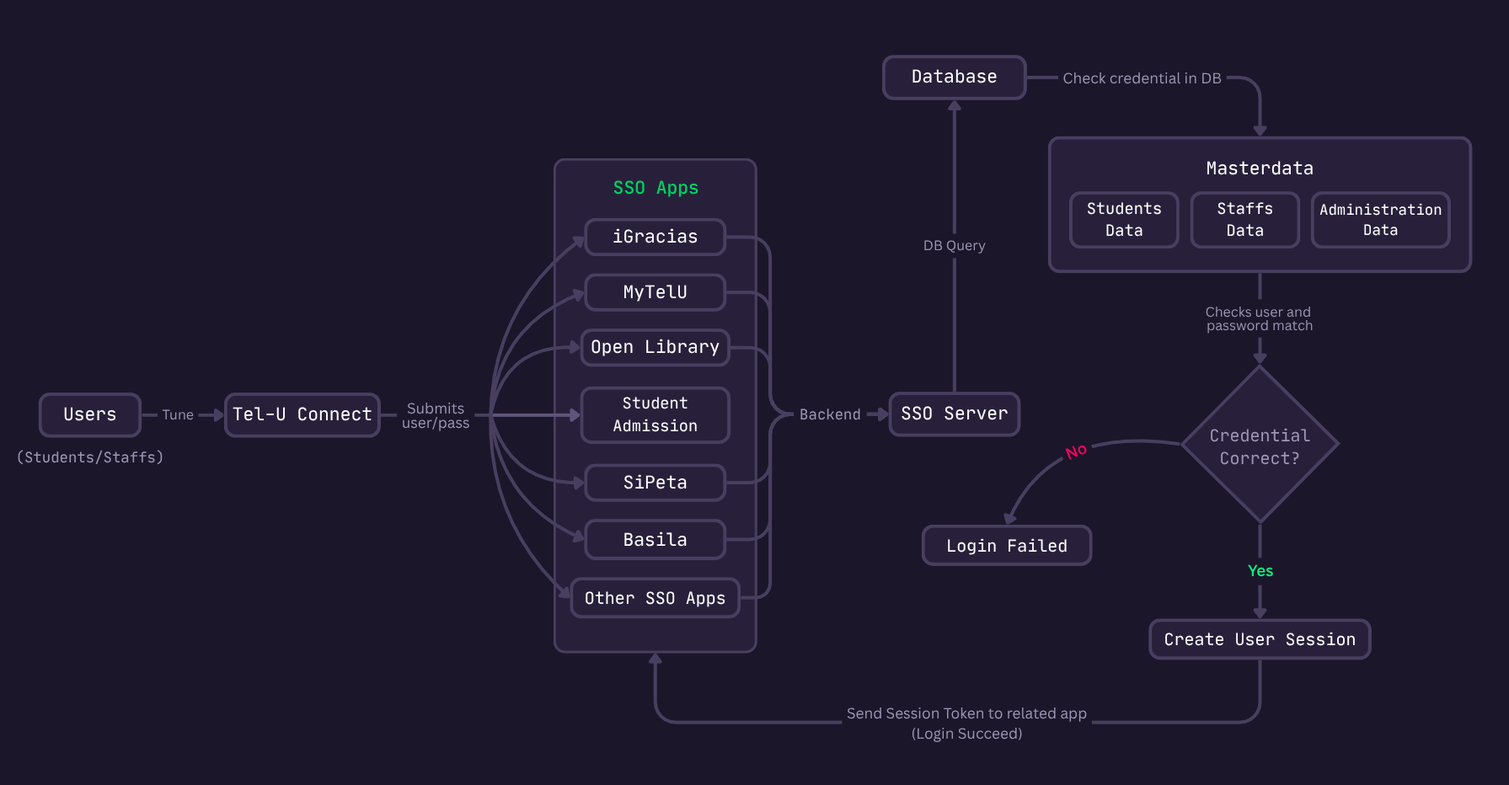
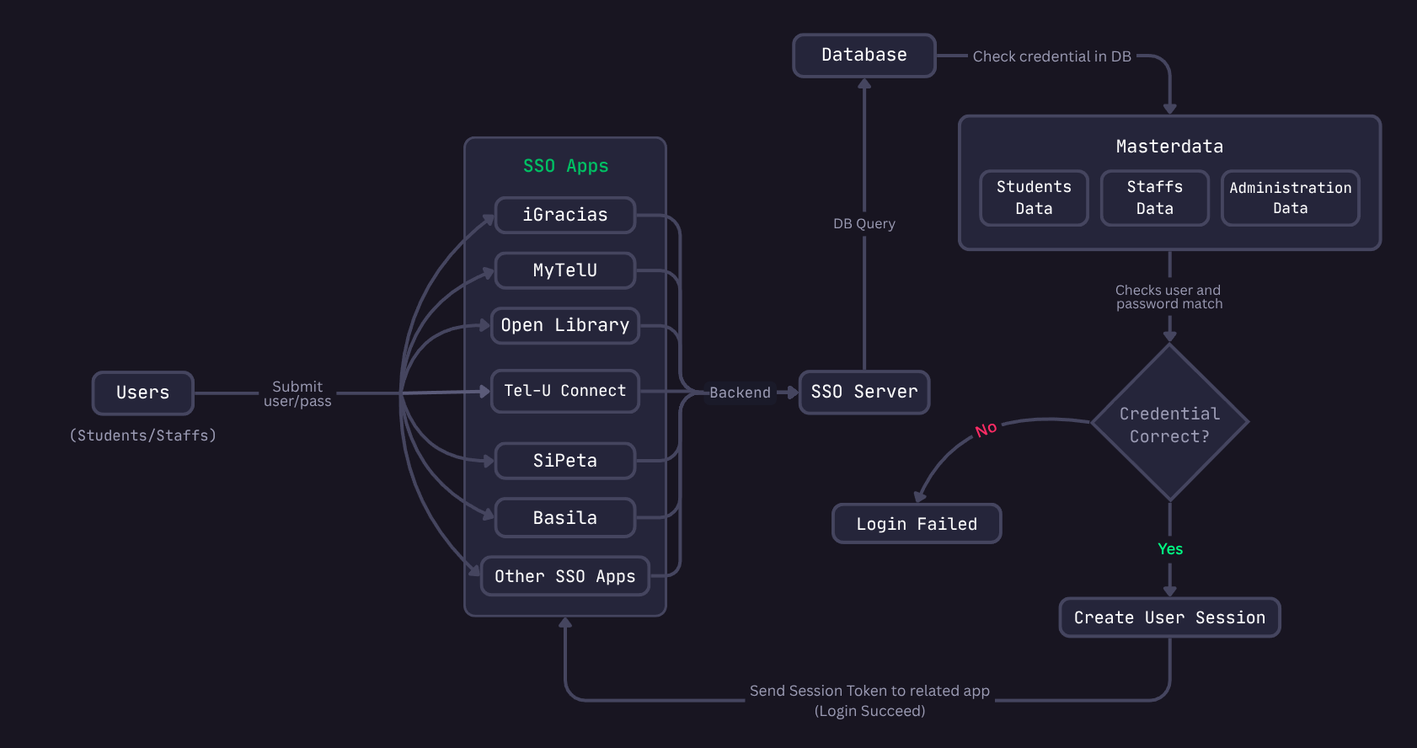
Blog: Hacking all the things on Telkom University (Graduation Edition)

Changed region(s): [[0.0, 0.1824, 0.742, 0.8514], [0.4019, 0.0304, 0.9893, 0.973], [0.5874, 0.6081, 0.742, 0.7297]]

diff --git a/blog-5.html b/blog-5.html
@@ -6,15 +6,15 @@
     <meta name="viewport" content="width=device-width, initial-scale=1.0">
     <meta http-equiv="x-ua-compatible" content="ie=edge">
 
-    <meta property="og:title" content="Could you take care your own privacy when its already in risk?" /> <!--How a Small Security Flaw Can Lead to Massive Data Breach-->
-    <meta property="og:description" content="ThereAreNoGeniuses_WithouTheTouchOfMadness" />
+    <meta property="og:title" content="Hacking all the things on Telkom University (Graduation Edition)" />
+    <meta property="og:description" content="There are no geniuses without a touch of madness" />
     <meta property="og:url" content="https://rfdhaikal-wizz.pro" />
     <meta
       property="og:image"
-      content="https://i.ibb.co.com/G0bwxNB/htb.jpg"
+      content="https://i.pinimg.com/564x/27/80/f4/2780f413024ba77b543b40a553ea7462.jpg"
     />
 
-    <title>How a Small Security Flaw Can Lead to Massive Data Breach</title>
+    <title>Hacking all the things on Telkom University (Graduation Edition)</title>
     <script src="assets/js/vendors/color-modes.js"></script>
     <!-- Favicon icon-->
     <link rel="shortcut icon" type="image/x-icon" href="assets/imgs/template/favicon.svg">
@@ -218,15 +218,15 @@
         <section class="section-details pt-60 pb-100">
             <div class="container">
                 <div class="row">
-                    <div class="col-lg-10 mx-lg-auto mb-8">
+                    <div class="col-lg-10 mx-lg-auto mb-3">
                         <div class="text-center">
                             <a href="#" class="btn btn-gradient d-inline-block text-uppercase"> Offensive Security </a>
-                            <h3 class="ds-3 mt-3 mb-3 text-dark">How a Small Security Flaw Can Lead to Massive Data Breach</h3>
+                            <h3 class="ds-3 mt-3 mb-3 text-dark">Hacking all the things on Telkom University (Graduation Edition)</h3>
                             <p class="text-300 fs-5 mb-0">
-                                Everything Online Is Vulnerable. This is how Attackers Exploit SQLi to Expose Your Personal Information 
+                                There are no geniuses without a touch of madness
                             </p>
                             <div class="d-flex align-items-center my-4">
-                                <img class="" style="width:1200px;" src="assets/imgs/blog/blog-2/cover.jpg" alt="" />
+                                <img class="" style="width:1200px;" src="assets/imgs/blog/blog-5/cover.png" alt="" />
                             </div>
                         </div>
                     </div>
@@ -234,93 +234,99 @@
                         <div class="row">
                             <div class="col-lg-9">
                                 <h4>Introduction</h4>
-                                <p style="text-align: justify;" >Every time you create an account online, make a purchase, or sign up for a service, you're trusting companies with pieces of your personal information. Your name, address, phone number, and sometimes even more sensitive details like financial information become part of their digital records. They don't know that nothing is secure when they enter the internet, even the safest system could break.</p>
                                 <p style="text-align: justify;">
-                                    In my recent bug hunting activity, I discovered several critical vulnerabilities that could exposed thousands of students' personal data in X University. What's concerning about this vulnerability is that it wasn't hidden in some obscure corner of the system. It was sitting in plain sight, in a place where users regularly interact with the website. Through an SQL injection technique, any attacker with basic knowledge could have potentially accessed the university's entire database.
+                                As I sit here in my final semester moment, I've spent so many time in Telkom University to make memories, meet some friends, and compete to win some competitions. I'd never regret to choose Tel-U to forge my bachelor's degree. It's a honor to become a part of this university, better than my previous academic history which is fucking sucks in every aspects. So before I leave these halls that have shaped me for years, there's something important that i need to share as a return.
                                 </p>
-                                <p style="text-align: justify; font-size: 17px;"><strong>Anyway</strong> if u tired reading the whole article and its concept, u can skip to <u style="color: blueviolet;"><strong><a href="#poc" style="color: blueviolet;">Proof of Concept</a></strong></u> to see me in action, But if u want to directly <strong>see some Facts</strong>, jump in to the <u style="color: blueviolet;"><strong><a href="#findings" style="color: blueviolet;">Findings</a></strong></u> section!</p>
 
-                                <h4>How does the Database works?</h4>
-                                <p style="text-align: justify;">Before we dive into what I discovered, let's understand how websites handle user inputs when they interact with the system. Every time you fill out a form online like username and password, the website takes these inputs and prepares it to be sent to its database, which is stored on secure servers.</p>
                                 <div class="d-flex align-items-center my-4">
-                                    <img class="" src="assets/imgs/blog/blog-2/input-flow.png" alt="" />
-                                </div>
-                                <p style="text-align: justify;">Every website you use relies on databases to store information. These databases are organized into tables, similar to spreadsheets. One table might contain user information with columns for usernames, passwords, email, and other personal details. Another table might store your activity history, preferences, or other data specific to the service. For example, when you log in, the query might look something like this :</p>
-                                <pre><code>SELECT * FROM logins WHERE username='admin' AND password = 'p@ssw0rd'</code></pre>
-
-                                <p style="text-align: justify;">The database then processes this request, searches through its records, and sends back an answer. If it finds a match, you're logged in. If not, you get an error message saying your login details are incorrect.</p>
-                                <h4>SQL Injection Attack Flow</h4>
-                                <p style="text-align: justify;">Now here's where things can go wrong. Many websites trust that users will only type normal usernames and passwords into forms. But what if someone types in special characters and commands that are part of the SQL language itself? This is where SQL Injection becomes possible. It's like if you were filling out a login form, and instead of just writing your account credential, you could somehow add extra instructions that trick the system into showing you everyone else's account information too.</p>
-                                <div class="d-flex align-items-center my-4">
-                                    <img class="" src="assets/imgs/blog/blog-2/sanitazion.png" alt="" />
+                                    <img class="" src="assets/imgs/blog/blog-5/sso-flow.png" alt="" />
                                 </div>
                                 
-                                <p style="text-align: justify;">The image illustrates two scenarios of how a web application handles a search query containing malicious input. In the properly sanitized version, the search system treats the input as literal text to search for. When the query reaches the database, all the special characters and SQL syntax are escaped and treated as regular text that should be matched against the database entries.</p>
-                                <p style="text-align: justify;">As a result, the system looks for records containing the exact phrase <code>' OR '1'='1</code>, and naturally finds no matches since this isn't a normal piece of text that would exist in legitimate records. This is the correct and secure behavior. The system is treating user input as data, not as code. However, the bottom scenario reveals a dangerous vulnerability where the input isn't properly sanitized.</p>
-                                
-                                <p style="text-align: justify;">When the same search term <code>' OR '1'='1</code> is processed by this vulnerable system, something different happens. The DB interprets this input as part of the SQL query's logic rather than as search text. The first quotation marks in the input break out of the intended query structure, and the <code>OR '1'='1'</code> portion adds a new condition that is always <code>TRUE</code>. The impact of this vulnerability is instead of finding no results, the search returns multiple "Search Result" entries.</p>
-                                <div class="d-flex align-items-center my-4">
-                                    <img class="" src="assets/imgs/blog/blog-2/failed-sanitazion.png" alt="" />
-                                </div>
+                                <p style="text-align: justify;">Over the past three years, I've conducted security research across all academic digital services that we all use every day, such as checking grades on iGracias, accessing library resources on Open Library, managing transcript and certificate (ijazah) on Basila, or make attendance in MyTel-U. For example, an SQL Injection on the iGracias wasn’t just a bug in one website, it could be used to trigger another bug on different web app since those apps are connected via SSO. Once those credentials are breached, an attacker can log in to every application that supports SSO login method like SiPeta, Basila, Open Library, Tel-U Connect, and many more.</p>
 
-                                <p style="text-align: justify;">This happens because the condition <code>'1'='1'</code> is always <code>TRUE</code> in SQL logic, telling the database to return all records regardless of what they contain, and since the second part is always <code>TRUE</code>, you get everything. What makes this more dangerous is that an attacker who discovers this behavior can modify their injection payload to do much more than just return all search results. This means they could steal usernames, passwords, email addresses, and any other sensitive information stored there. Even worse, since <strong>many people reuse passwords</strong> across different websites, a breach at one site could lead to compromised accounts on other platforms.</p>
-                                <p style="text-align: justify;">The vulnerability I discovered was exactly this type of security flaw. The website wasn't properly checking and cleaning up what users typed into one of its forms before sending that information to the database. This meant that anyone who understood SQL Injection could potentially manipulate the website's database queries to expose sensitive user information. </p>
-                                
-                                <h4 id="poc">Proof of Concept</h4>
-                                <p style="text-align: justify;">Before diving into the technical details of this discovery, I want to emphasize that what you're about to read describes a security vulnerability that has been fully patched, so you can't exploit the same way i tried in this blog. Okay, the first step was understanding what I was dealing with. Every website has different technology stack. I discovered that the X university's web  was running on Oracle database.</p>
-                                <p style="text-align: justify;">Next, I started with the search functionality. My testing progression went like this: First, I entered a normal search:</p>
-                                <pre><code class="language-sql">search_term: mahasiswa</code></pre>
+                                <p style="text-align: justify;">I'm not writing this as an expert standing above everyone else, but as a student who is also a part of this university. My hope is that by the time you finish reading this, you'll not only understand the risks but feel empowered to take action for the future, even after graduation, since cyber attacks could occurs anytime and anywhere. Imagine a scenario where someone could access your KTP, steal your SSO account, or use your personal data without your knowledge or consent. The finding I share are real weaknesses that could affect your personal & sensitive data, academic records, your privacy, and even all of your family history.</p>
 
-                                <p style="text-align: justify;">This returned expected results about student resources. Then, I tried a simple test payload:</p>
-                                <pre><code>search_term: ' OR '1'='1</code></pre>
+                                <h4 class="my-4">Brief Overview</h4>
+                                <p style="text-align: justify;">All of the vulnerabilities i found have been reported to PuTI, and I'm grateful that they've taken action to close and remediate all my findings. You might wonder why I'm only sharing this now in my final moments as a student. It's because the system behavior itself. Some findings like Insecure Direct Object References (IDOR) require at least two different user roles to identify and verify the security flaw. As a student, I could only see the system from one perspective. But once my role transitioned from Student to Alumni, I gained a different POV that allowed me to observe how the system behaves across different roles and permissions.</p>
 
                                 <div class="d-flex align-items-center my-4">
-                                    <img class="" src="assets/imgs/blog/blog-2/poc1.png" alt="" />
+                                    <img class="" src="assets/imgs/blog/blog-5/findings.png" alt="" />
                                 </div>
-                                <p style="text-align: justify;">Something unexpected happened. Instead of seeing a few relevant results , it returned more results from A to Z. To confirm this wasn't a false positive, I tried another test:</p>
-                                <pre><code>search_term: ' AND '1'='2</code></pre>
 
-                                <p style="text-align: justify;">This time, I got zero results because <code>'1'='2'</code> is always <code>FALSE</code>. The different responses to these inputs confirmed that the application was directly embedding my search terms into its SQL queries without proper sanitization. After confirming the vulnerability through manual testing, I moved to an automation tool using SQLMap. I began by capturing search request from the university's website using BurpSuite Interceptor. This request was saved to a file named <code>request.txt</code>.</p>
-                                <p style="text-align: justify;">Since I already knew the system used Oracle from our reconnaissance, I specified <code>--dbms=Oracle</code> to ensure our tests efficient. Next, i use sqlmap to automate the process</p>
+                                <p style="text-align: justify;">There are more than 10 issues found across all Telkom University services as you can see in the image above (*please turn the dark mode on). Im sure that there could be several more, but i just want to share the most destructive and impactful risk among those findings. Most of them are oftenly used by students, lecturer, and staff for their academic activity. These span across Basila, SiPeta, MyTel-U, iGracias, and Open Library. The rest of the findings has a similar vulnerability like those apps, so i just want to share the unique one. My goal isn't to make you paranoid about using these systems. Instead, I want to share knowledge to help you understand the risks, and to encourage you to be more mindful about privacy & security.</p>
+                                
+
+                                <h4>Impact & Findings</h4>
+
+                                <h6>1. Unauthorized File Access in Basila</h6>
+                                <p style="text-align: justify;">Basila is used by the final semester students to download their transcripts and certificates (ijazah). The system requiring students to input their SSO username and password before being allowed to download these sensitive documents. This seems like a reasonable security measure to ensure that only the rightful owner can access their own files.</p>
+
+                                <p style="text-align: justify;">However during my testing, I discovered about how Basila actually processes these download requests. While the application does ask for your username and password, it turns out that these credentials aren't actually being used to verify which files you're authorized to access. Instead, the system relies on a student ID number (NIM) that's sent in the background when you make a download request. This means that even though I would log in with my own username & password before downloading those documents, I can modify the NIM in the HTTP request to someone else's student ID. The system would still accepting my request and send me that other student's documents. The user/pass verification check was essentially just for show, but it didn't actually protect anything.</p>
 
                                 <div class="d-flex align-items-center my-4">
-                                    <img class="" src="assets/imgs/blog/blog-2/poc2.png" alt="" />
+                                    <img class="" src="assets/imgs/blog/blog-5/basila1.png" alt="" />
                                 </div>
-                                <p style="text-align: justify;">When I ran this command, the results were concerning. Sqlmap was able to mapping out the structure of the X university's database. I immediately halted the testing at this point. Finding the database schemas was enough to confirm the severity of the vulnerability without risking any damage to the systems.</p>
-                                <p style="text-align: justify;">The X university's security team later confirmed that the vulnerability has been completely patched. They implemented proper input validation, query parameterization, and additional security layers to prevent any such SQL injection attacks in the future. This is why I can now share these technical details.</p>
 
-                                <h4 id="findings">Findings</h4>
-                                <div class="d-flex align-items-center my-2">
-                                    <img class="" src="assets/imgs/blog/blog-2/findings1.png" alt="" />
-                                </div>
-                                <p style="text-align: justify;">Perhaps the most alarming discovery was that <strong> some DB tables stored passwords in PLAIN TEXT</strong> meaning they weren't even encrypted or hashed. When I verified these credentials on the website, they worked perfectly, confirming that these were actual, active passwords.</p>
+                                <p style="text-align: justify;">Anyone with a valid SSO account could download transcripts and certificates belonging to any student in the university. All they need is just a student's NIM, which isn't exactly secret information since it can be accessed publicly via PDDikti. Imagine if someone wanted to impersonate you for a job application, or if a malicious actor wanted to steal the identities of hundreds or thousands of students. It can be a gateway to identity theft, fraud, and a serious breach of privacy for every student who has ever graduated or is about to graduate from the university.</p>
+
+                                <h6>2. Broken Access Control on SiPeta</h6>
+                                <p style="text-align: justify;">SiPeta is a platform where Students can upload their thesis progress, view grades, submit administrative documents, and check their thesis defense status. Lecturers can also use it to input grades and review thesis drafts. To access these features, students must have a valid certificate called "SK TA" (Surat Keterangan Tugas Akhir). This certificate acts as your permission slip which confirm that you're officially registered for thesis work. Without it, the system is designed to restrict your access and only showing you a user dashboard on its menubar.</p>
                                 
-                                <div class="d-flex align-items-center my-2">
-                                    <img class="" src="assets/imgs/blog/blog-2/findings2.png" alt="" />
-                                </div>
-                                <p style="text-align: justify;">In modern security practices, passwords should always be stored using strong hashing algorithms, making them unreadable even if someone gains database access. The fact that I could see these passwords in clear text means that <strong>anyone who gained access to this database could potentially log into users' accounts</strong>.</p>
-
-                                <p style="text-align: justify;">The ability to spawn an SQL shell and execute <code>SELECT</code> queries is especially troubling. While I didn't attempt destructive queries (<code>INSERT</code>, <code>UPDATE</code>, <code>DELETE</code>) for ethical reasons, the possibility of threat actors to not only view sensitive data but potentially modify or destroy it poses a severe risk.</p>
-                                <div class="d-flex align-items-center my-2">
-                                    <img class="" src="assets/imgs/blog/blog-2/findings4.png" alt="" />
+                                <div class="d-flex align-items-center my-4">
+                                    <img class="" src="assets/imgs/blog/blog-5/sipeta.png" alt="" />
                                 </div>
 
-                                <p style="text-align: justify;"><strong>One of the most concerning discoveries</strong> was that some of these plaintext passwords worked on other web platforms (password reuse). When students use the same password across multiple services, a breach in one system can lead to compromised accounts everywhere.</p>
-                                <p style="text-align: justify;">The discovery of password reuse among students reveals a critical need for better security awareness. <strong>Your account password should be unique</strong> and never used for other services. Why? Because even if other platforms properly secure your password, using the same password across services means a breach anywhere becomes a breach everywhere.</p>
-                                <div class="d-flex align-items-center my-3">
-                                    <img class="" src="assets/imgs/blog/blog-2/findings5.png" alt="" />
+                                <p style="text-align: justify;">But, while the system correctly restrict access to some features/menu that require a valid SK TA, it fails to actually block access to those features at the server level. In my testing, even with an expired SK TA status, I could bypass the restriction by typing the direct URL of any SiPeta menu into my browser. The application would accept my request and grant me full access to that feature as if I had a valid certificate. The system was essentially relying on "security through obscurity" assuming that if students couldn't see the menu buttons, they wouldn't know how to access the features. Actually i've guessed this behavior long time before i discovered this finding. That's why i saved all valid links when my SK TA is valid, and test all those links when my SK TA has been expired to confirm this finding is really exist.</p>
+
+                                <p style="text-align: justify;">The vulnerability also means that the entire permission system built around SK TA certificates becomes meaningless. If access controls can be bypassed with such a simple method, what's the point of requiring certificates in the first place? It undermines the integrity of the entire thesis management process and the administrative controls that are supposed to govern who can do, what, and when within the system.</p>
+
+                                <h6>3. Insecure Data Storage in MyTel-U</h6>
+
+                                <p style="text-align: justify;">The next issue I found was related about how MyTel-U mobile handled data storage. Mobile apps often save small pieces of information locally on the device so that users don’t have to log in repeatedly. On Flutter, this is commonly done using something called Shared Preferences, which is essentially like a local storage cookies in a web browser.</p>
+
+                                <div class="d-flex align-items-center my-4">
+                                    <img class="" src="assets/imgs/blog/blog-5/mytelu1.png" alt="" />
                                 </div>
 
-                                <p style="text-align: justify;">As we conclude this journey, I want to leave you with some important reflections.  When I discovered this findings, <strong>I had access to sensitive information</strong> that could have affected real people's lives: ID cards that determine futures, financial data that impacts livelihoods, and personal information that could be exploited for malicious purposes. I want to be clear, <strong>I never used this access for personal gain or malicious purposes</strong>. They were used to fix problems and raise awareness about the importance of data privacy.</p>
+                                <p style="text-align: justify;">When a user logged into the application, the backend would return user info such as name, grade, or role which the app then stores those info in local storage. Every time the application launched back, it would read the role value from this local storage and use it to render the appropriate UI components and enable specific features. But in this finding, because there was no secondary validation with the server to verify those user datas matched the actual data in the database, the app trusted whatever value was present in the local storage. For example, we can modify our user role in the local storage from "Mahasiswa" to become "Dosen" user role, and the app will grant us as a lecturer.</p>
+
+                                <div class="d-flex align-items-center my-4">
+                                    <img class="" src="assets/imgs/blog/blog-5/mytelu2.png" alt="" />
+                                </div>
+
+                                <p style="text-align: justify;">Local storage in Flutter is designed to store non-sensitive information like news, notifications, name, faculty, or grades. It was never intended to store sensitive such as role, password, or even auth token. Because these values were not encrypted, Attackers could read and modify these data easily. In a good practice, Sensitive information like tokens or passwords should always be stored using secure mechanisms, such as Flutter Secure Storage.</p>
+
+                                <h6>4. SQL Injection in Open Library</h6>
+                                <p style="text-align: justify;">Behind the scenes, Open Library communicates with a database to retrieve information about available resources, student borrowing history, and catalog details.  It's a system that students and staff interact with regularly for research and academic purposes. When you search for a book or access any feature, your input is sent to the database as a query command. Normally, the system should treat your input as plain text and safely search for matching results. However, I discovered that Open Library wasn't properly filtering user input before passing it to the database.</p>
+
+                                <p style="text-align: justify;">This vulnerability is called SQL Injection, and it happens when user input is directly inserted into a database query without proper validation or sanitization. Instead of treating my input as a simple search term, the system was processing it as part of the actual database command. Actually this finding behavior was similar to the one i found in iGracias, but the injection points on Openlib was quite hard to find since it uses old code base. You can read the detailed explanation about the similar finding in this blog. The main thing is, by crafting special characters and SQL syntax into my search input, I could manipulate the query to do things it was never supposed to do. This wasn't just about accessing library data anymore. I was able to break out of the intended query and execute my own database commands, giving me the ability to read and potentially modify data that should have been off-limits.</p>
+
+                                <div class="d-flex align-items-center my-4">
+                                    <img class="" src="assets/imgs/blog/blog-5/oplib2.png" alt="" />
+                                </div>
+
+                                <p style="text-align: justify;">One of the most sensitive databases I could access was called Masterdata, which stores almost all academic and administrative information across the university. There are so many sensitive data inside Masterdata DB such as PII informations, student academic records, administrative data, enrollment details, and countless other sensitive datasets that power various university systems. This means a single SQL Injection point in Open Library could potentially compromise the entire university's digital infrastructure. It's like finding one weak door that leads to every room in the entire building. The impact of this vulnerability extended far beyond just library records, it threatened the confidentiality of everyone's data across the entire institution.</p>
+
+                                <h6>5. Insecure Direct Object Reference on iGracias</h6>
+                                <p style="text-align: justify;">One of the feature within iGracias is called TAK (Transcript of Student Activities), which records all your extracurricular activities, organizational involvement, competitions, and other achievements during the study. The system works through a structured approval process where students can add new TAK records or update existing ones in their account. Once submitted, these records must be reviewed and approved by the LAK administration team. If approved, the TAK points get added to your academic record. Otherwise, you'll need to make revisions based on the LAK team's feedback. This process exists to ensure that only legitimate achievements are recognized in your academic transcript.</p>
+
+                                <p style="text-align: justify;">However, I discovered a critical flaw in how iGracias handles TAK record modifications. This finding occurs when the system doesn't properly verify whether a user has the right to access or modify a specific piece of data. In this case, when you submit or update a TAK record, the system uses an identifier to reference which record is being modified. But it never checks whether that identifier actually belongs to you. By manipulating this identifier in my request, I could target another student's TAK record and modify it as if it were my own. Even worse, I discovered that I could craft a request payload that not only altered the record but also bypassed the entire approval workflow altogether.</p>
+
+                                <p style="text-align: justify;">This means an attacker could insert some fake activity records into any student's account, cheating to increase their TAK points, and directly mark those records as "approved" without any involvement from the LAK administration team. They could give themselves credit for competitions they never participated in, organizational roles they never held, or achievements they never earned. Since TAK points play a significant role in determining academic recognitions, scholarships, and even serve as a requirement for graduation, this vulnerability creates an unfair advantage.</p>
+
+                                <p style="text-align: justify;">The severity of this issue is at least on the same level as SQL Injection. While SQL Injection threatens data breaches, its impact can still be reduced by changing password or enabling multi-factor authentication on the victim's side. Even if credentials were leaked, MFA would act as an additional barrier against the attackers that trying to log in with breached password from SQLi finding. But on the other hand, this IDOR finding could bypasses authentication entirely. No matter how strong a user’s password is, or even if they rotate it daily and enabling MFA, the attacker could still modify the victim’s data by just using the data IDs of the victim. This data IDs wont never changed since it has already defined randomly by the system. Unfortunately, anyone can view this ID based on student's NIM, while the NIM itself can be accessed publicly via PDDikti. This makes IDOR highly damaging because it undermines the integrity of academic records without needing to compromise any account at all.</p>
 
                                 <!-- CONCLUSION -->
                                 <div class="border-linear-3 rounded-4 p-lg-6 p-md-4 p-3 mt-6">
                                     <h4>Conclusion</h4>
-                                    <p style="text-align: justify;">While we often read about data breaches affecting large companies, this case demonstrates that privacy risks <strong> exist in places we trust the most</strong>, which is our campus institutions. This was a university system containing the personal information of thousands of students, faculty, and staff. </p>
-                                    <p style="text-align: justify;">People who walk the same halls I do every day. People who trust the institution with their sensitive data, future prospects, and digital security. The vulnerability I discovered <strong>could have exposed</strong> their grades, personal information, and even their passwords which, as I found, many reused across different platforms.</p>
-                                    <p style="text-align: justify;">But this story isn't meant to spread fear. Instead, it should serve for change in how we think about our privacy. Every time you create an account, share personal information, or reuse a password, <strong>you're making decisions that affect your data privacy</strong>. The vulnerability in this university's system has been fixed, but somewhere, right now, similar vulnerabilities exist in other systems holding your personal information.</p>
+                                    <p style="text-align: justify;">Over the past 3 years as a student, i was spending time to test the security of campus services. When students can access each other's grades, modify TAK records without approval, or when an attacker can easily have access to our privacy, the integrity of our institution becomes questionable. Imagine if your data could be altered by anyone who discovered this finding, or if your personal information such as home address, UKT payment, phone number, KTP, and even plaintext password was abused by anyone for their personal gain. These scenarios  will affect our life even if we have graduated.</p>
 
-                                    <p style="text-align: justify;">The good news is that <strong>you have the power to protect yourself</strong>. Use unique passwords for every account. Be mindful of what information you share and where you share it. <span style="color: #ff255f; font-weight: 600;">Privacy isn't about having something to hide. It's about having something to protect.</span> And in our world, we all have something worth protecting.</p>
+                                    <p style="text-align: justify;">As a part of the student within this university, we all share the same digital infrastructure and face the same risks. Writing this blog serves as a way to translate my findings into understandable information to raise your awareness.</p>
+                                    
+                                    <p style="text-align: justify;"><strong>When students understand how their data can be breached, they become more aware about data privacy & security.</strong> Protecting data means protecting people, and building awareness is the path to ensuring trust and fairness in this university. <span style="color: #ff255f; font-weight: 600;">Carrying this awareness forward is one of the most meaningful legacies to leave behind before my graduation</span>.</p>
+
+                                    <p style="text-align: justify;">This is why education are important. Cyber attacks may seem like spells casted from nowhere. Once you understand how to trick the system, you no longer see it as magic, you see it as a weakness that can be fixed. Some people see this like a sorcery tricks where the hacker modifying a system as they want, or breaking something for fun. But the truth is, there’s no magic. It's just a Wizard crafting spells and doing some tricks to conquer the world.</p>
+
                                     <p style="text-align: justify; color: white; font-size: 17px;">- Wzrd.</p>
 
                                 </div>
@@ -329,11 +335,11 @@
                                 <div class="border-linear-3 rounded-4 p-lg-6 p-md-4 p-3 mt-lg-0 mt-4">
                                     <div class="d-flex align-items-center mb-3">
                                         <i class="ri-time-line fs-6"></i>
-                                        <span class="ms-2 fs-6">6 mins to read</span>
+                                        <span class="ms-2 fs-6">7 mins to read</span>
                                     </div>
                                     <div class="d-flex align-items-center mb-3">
                                         <i class="ri-calendar-schedule-line fs-6"></i>
-                                        <span class="ms-2 fs-6">December 17, 2024</span>
+                                        <span class="ms-2 fs-6">November 5, 2024</span>
                                     </div>
                                     <div class="d-flex align-items-center mb-3">
                                         <i class="ri-user-line fs-6"></i>
@@ -403,16 +409,16 @@
                             <div class="blog-card__image position-relative">
                                 <div class="zoom-img rounded-3 overflow-hidden">
                                     <img class="w-100" src="https://i.pinimg.com/736x/c9/c3/47/c9c347f07d38aa9c2ad85e73db0a4719.jpg" style="height: 250px; object-fit: cover;" alt="">
-                                    <a class="position-absolute bottom-0 start-0 m-3 text-white-keep btn btn-gradient fw-medium rounded-3 px-3 py-2" href="blog-3.html">Web Exploitation</a>
+                                    <a class="position-absolute bottom-0 start-0 m-3 text-white-keep btn btn-gradient fw-medium rounded-3 px-3 py-2" href="blog-3.html">Offensive Security</a>
                                     <a href="blog-3.html" class="blog-card__link position-absolute top-50 start-50 translate-middle icon-md icon-shape bg-linear-1 rounded-circle">
                                         <i class="ri-arrow-right-up-line text-dark"></i>
                                     </a>
                                 </div>
                             </div>
                             <div class="blog-card__content position-relative text-center mt-4">
-                                <span class="blog-card__date fs-7">November 5, 2024 • 5 min read</span>
-                                <h5 class="blog-card__title">Bug Hunting XSS Vulnerability in Jember University Journal Web</h5>
-                                <p class="blog-card__description fs-6">Exploiting web for fun & profit (braindead edition)</p>
+                                <span class="blog-card__date fs-7">November 5, 2024 • 7 min read</span>
+                                <h5 class="blog-card__title">Hacking all the things on Telkom University (Graduation Edition)</h5>
+                                <p class="blog-card__description fs-6">There are no geniuses without a touch of madness</p>
                                 <a href="blog-3.html" class="link-overlay position-absolute top-0 start-0 w-100 h-100"></a>
                             </div>
                         </div>

diff --git a/blog-1.html b/blog-1.html
@@ -8,7 +8,7 @@
 
     <meta property="og:title" content="Reverse Engineering Fake Phishing SiCepat App " />
     <meta property="og:description" content="Everything Online Is Vulnerable. This is how Attackers Exploit SQLi to Expose Your Personal Information " />
-    <meta property="og:url" content="https://w333zard.my.id" />
+    <meta property="og:url" content="https://rfdhaikal-wizz.pro" />
     <meta
       property="og:image"
       content="https://i.pinimg.com/736x/c9/c3/47/c9c347f07d38aa9c2ad85e73db0a4719.jpg"

diff --git a/index.html b/index.html
@@ -7,7 +7,7 @@
     <meta http-equiv="x-ua-compatible" content="ie=edge">
     <meta property="og:title" content="Haikal@w333zard" />
     <meta property="og:description" content="24/7 pwning system for fun & profit" />
-    <meta property="og:url" content="https://w333zard.my.id" />
+    <meta property="og:url" content="https://rfdhaikal-wizz.pro" />
     <meta
       property="og:image"
       content="https://i.pinimg.com/736x/c9/a7/2b/c9a72bdd25bd4dbb6ce793289465c714.jpg"

diff --git a/blog-3.html b/blog-3.html
@@ -8,7 +8,7 @@
 
     <meta property="og:title" content="Bug Hunting Jember University Web: XSS Vulnerability" />
     <meta property="og:description" content="Exploiting web for fun & profit (braindead edition)" />
-    <meta property="og:url" content="https://w333zard.my.id" />
+    <meta property="og:url" content="https://rfdhaikal-wizz.pro" />
     <meta
       property="og:image"
       content="https://i.pinimg.com/564x/27/80/f4/2780f413024ba77b543b40a553ea7462.jpg"

diff --git a/blog-4.html b/blog-4.html
@@ -8,7 +8,7 @@
 
     <meta property="og:title" content="Cyberbreaker CTF - Attack Session Writeup Documentation" />
     <meta property="og:description" content="Hacking My Way Into Your Heart" />
-    <meta property="og:url" content="https://w333zard.my.id" />
+    <meta property="og:url" content="https://rfdhaikal-wizz.pro" />
     <meta
       property="og:image"
       content="https://i.pinimg.com/736x/cd/b9/cc/cdb9ccd989e14e849a472a977af75ee0.jpg"
